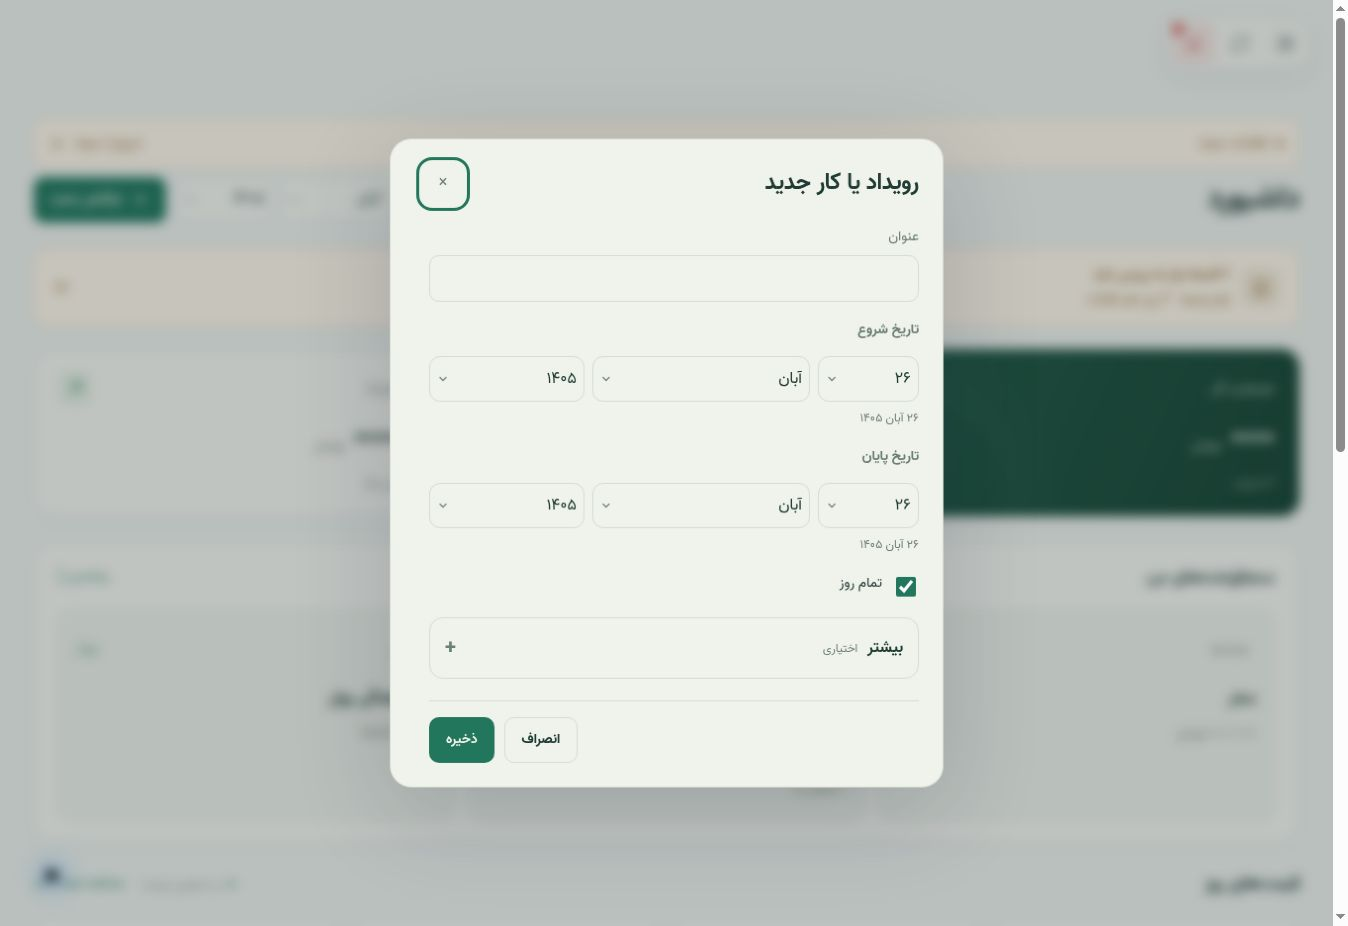
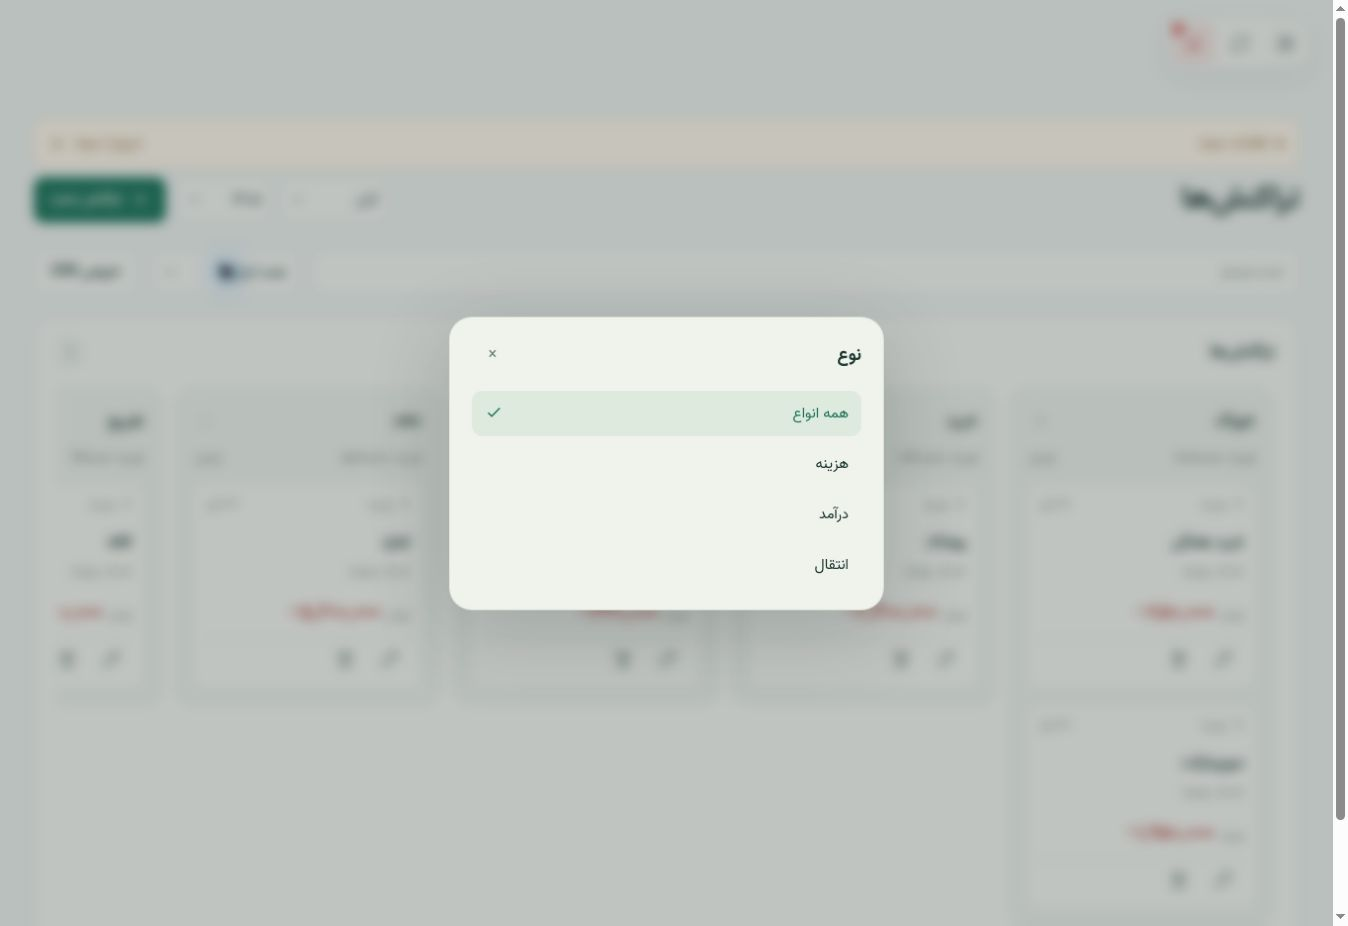
Polish transfer column label and document the shared selection UI

diff --git a/src/DameDast.Web/wwwroot/transaction-board.js b/src/DameDast.Web/wwwroot/transaction-board.js
@@ -15,7 +15,7 @@ export function transactionBoard(c, records, {icon, categoryTitle, accountName, 
   const groups = groupTransactions(records, categoryOrder);
   return `<div class="transaction-board" style="--transaction-columns:${groups.length}" role="region" aria-label="${t("Transactions by category")}" tabindex="0">${groups.map(group => {
     const totals = ["income", "expense", "transfer"].map(type => ({type, sum:group.records.filter(r=>r.data.type===type).reduce((sum,r)=>sum+r.data.amount,0)})).filter(x=>x.sum);
-    return `<section class="transaction-column"><header><div><h2>${esc(categoryTitle(c,group.category))}</h2><span class="badge">${localizedNumber(group.records.length)}</span></div><div class="transaction-column-totals">${totals.map(x=>`<span>${t({income:"Income",expense:"Spending",transfer:"Transfers"}[x.type])}<bdi dir="ltr">${money(x.sum)}</bdi> ${t("toman")}</span>`).join("")}</div></header><div class="transaction-column-cards">${group.records.map(record=>{
+    return `<section class="transaction-column"><header><div><h2>${esc(categoryTitle(c,group.category))}</h2><span class="badge">${localizedNumber(group.records.length)}</span></div><div class="transaction-column-totals">${totals.map(x=>`<span>${t({income:"Income",expense:"Spending",transfer:"Transfer"}[x.type])}<bdi dir="ltr">${money(x.sum)}</bdi> ${t("toman")}</span>`).join("")}</div></header><div class="transaction-column-cards">${group.records.map(record=>{
       const d=record.data;
       return `<article class="transaction-card"><div class="transaction-card-meta"><span class="transaction-type ${d.type}">${icon(d.type === "transfer" ? "transactions" : d.type)}${t({income:"Income",expense:"Expense",transfer:"Transfer"}[d.type])}</span><time datetime="${d.date}">${dateText(d.date)}</time></div><h3 dir="auto">${dataText(c,d.note || categoryTitle(c,d.category))}</h3><p dir="auto">${dataText(c,accountName(c,d.accountId))}${d.destinationId ? ` ← ${dataText(c,accountName(c,d.destinationId))}` : ""}</p><bdi class="transaction-card-amount ${d.type==='income'?'positive':d.type==='expense'?'negative':''}" dir="ltr">${d.type==='income'?'+':d.type==='expense'?'−':''}${money(d.amount)} <small>${t("toman")}</small></bdi><footer><button type="button" class="icon-button" data-action="edit" data-id="${record.id}" aria-label="${t("Edit")}">${icon("edit")}</button><button type="button" class="icon-button" data-action="delete" data-id="${record.id}" aria-label="${t("Delete")}">${icon("trash")}</button></footer></article>`;
     }).join("")}</div></section>`;

diff --git a/src/DameDast.Web/wwwroot/sw.js b/src/DameDast.Web/wwwroot/sw.js
@@ -1,4 +1,4 @@
-const CACHE = "damedast-shell-v44";
+const CACHE = "damedast-shell-v45";
 const SHELL = [
   "/",
   "/index.html",
